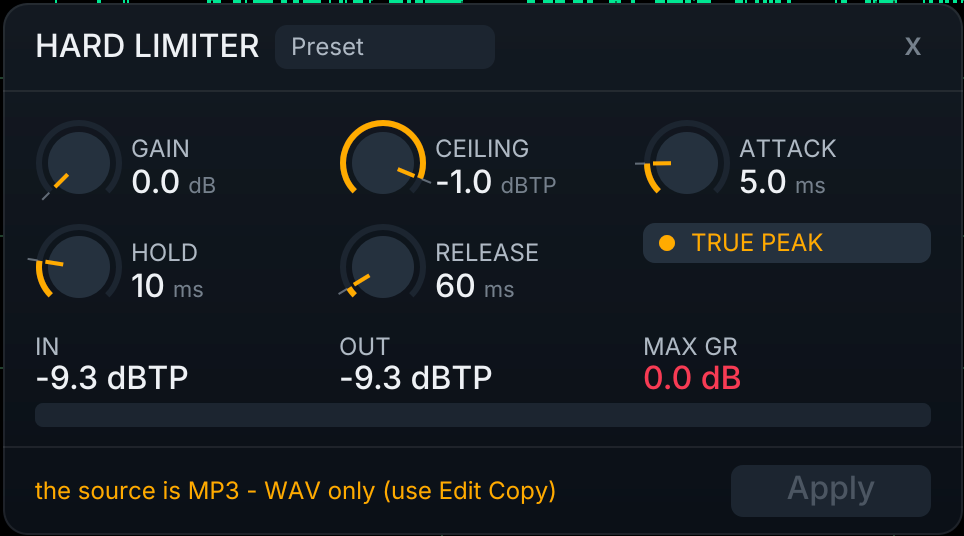
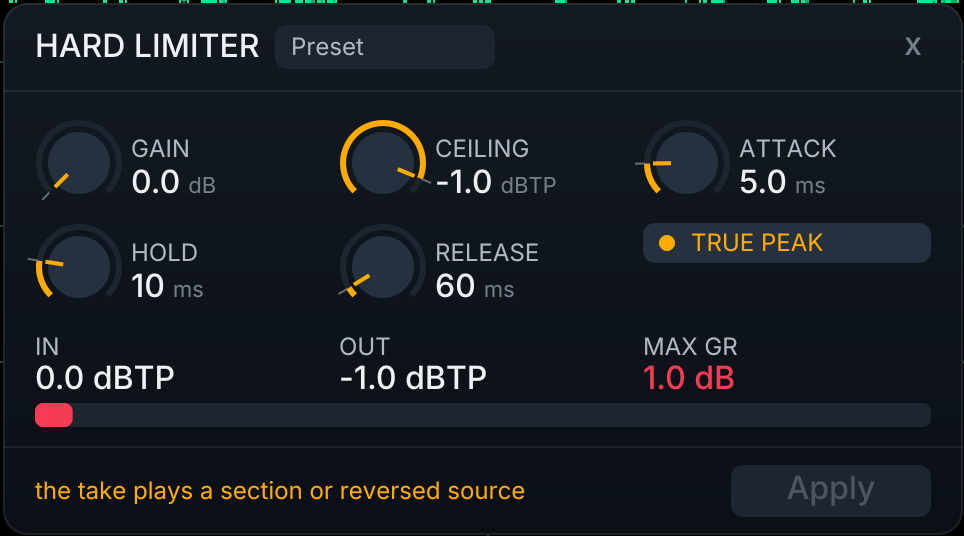
docs: the Hard Limiter footer states in the guide follow Convert & go - a new crop of the MP3 item (Apply enabled, 'APPLY CONVERTS THE MP3 TO WAV, THEN LIMITS IT') next to the greyed state, now shot on a take reversed in REAPER (the MP3 no longer greys); shoot spec s03 updated

diff --git a/docs/guide.html b/docs/guide.html
@@ -991,7 +991,10 @@ hr{border:none;border-top:1px solid var(--border);margin:48px 0}
   The limiter detects peaks on an oversampled grid finer than the BS.1770-4 meter standard and then re-measures its own output, so files it writes read at or below the ceiling on compliance meters (ASWG-R001 style QC included).
 </div>
 
-<img src="images/hard-limiter-greyed.png" alt="The Hard Limiter on an MP3 item: the footer says why and Apply is greyed" style="width:482px;max-width:100%;border-radius:var(--radius);margin:16px 0 24px;border:1px solid var(--border)">
+<div style="display:flex;flex-wrap:wrap;gap:16px;margin:16px 0 24px">
+  <img src="images/hard-limiter-convert.png" alt="The Hard Limiter on an MP3 item: the footer says Apply converts the MP3 to WAV first, Apply enabled" style="width:482px;max-width:100%;border-radius:var(--radius);border:1px solid var(--border)">
+  <img src="images/hard-limiter-greyed.png" alt="The Hard Limiter on a take reversed in REAPER: the footer says why and Apply is greyed" style="width:482px;max-width:100%;border-radius:var(--radius);border:1px solid var(--border)">
+</div>
 
 <div class="warning">
   <strong>Destructive by design</strong>
